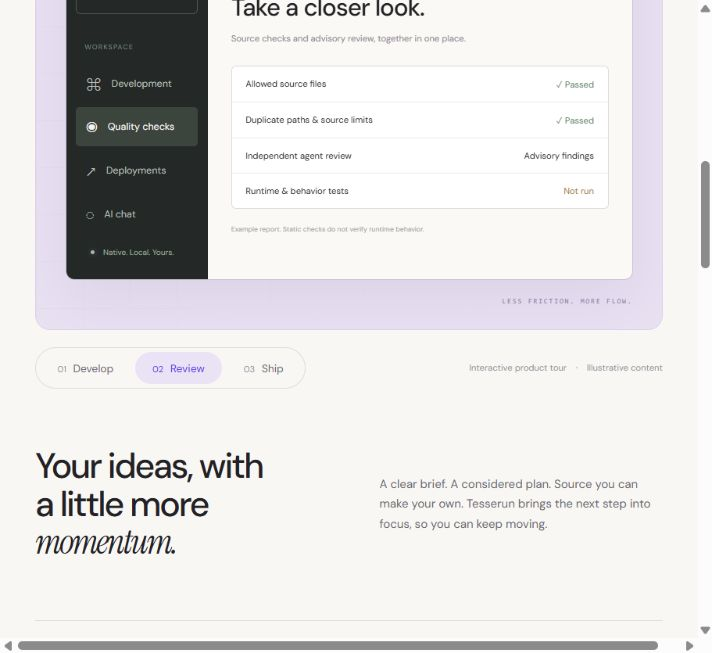
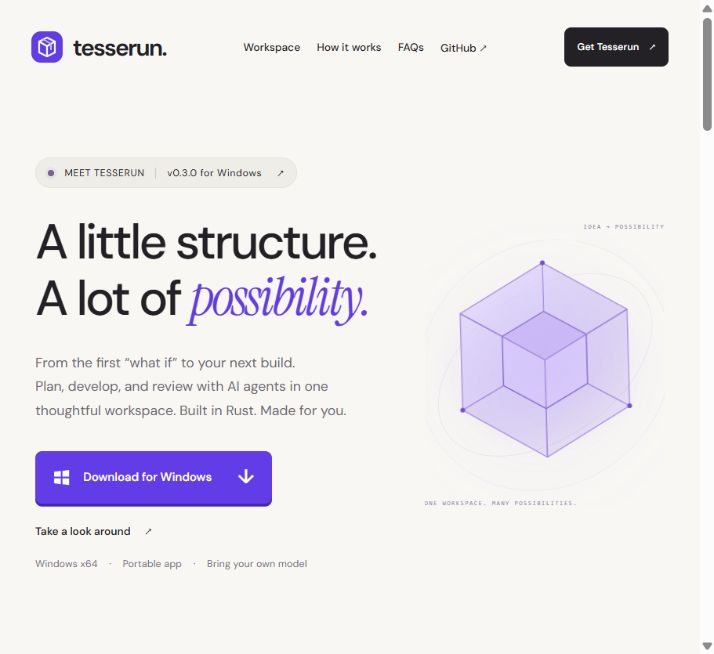
Keep tablet artwork inside the page bounds

diff --git a/dist/index.html b/dist/index.html
@@ -10,7 +10,7 @@
   <meta property="og:type" content="website">
   <title>Tesserun — Your next idea starts here.</title>
   <link rel="icon" href="assets/mark.svg" type="image/svg+xml">
-  <link rel="stylesheet" href="/styles-1e30924c4ad734dd.css" integrity="sha384-K6PMj+MxF8EnjRyua6fmjiLmJIg+tHaxVOGjLaqIG5dRPVg8d6LdxRRn6NkVA76L"/>
+  <link rel="stylesheet" href="/styles-bebdb984270fb58c.css" integrity="sha384-750YCcpsnPoUuY2CbthRI74Xbb/gIM2jXs99+J9Bebx+Eccfc2nQVZTlFzFSaSsW"/>
 
 <script type="module">
 import init, * as bindings from '/tesserun-website-4ac3f60a7a16c252.js';

diff --git a/dist/styles-bebdb984270fb58c.css b/dist/styles-bebdb984270fb58c.css
@@ -10,3 +10,4 @@
 @media(prefers-reduced-motion:reduce){html{scroll-behavior:auto}*,*::before,*::after{animation:none!important;transition:none!important}}
 
 #navigation-root,.navigation-region,#workspace-tour{display:contents}
+@media(min-width:641px) and (max-width:850px){.hero-art{overflow:clip}}

diff --git a/styles.css b/styles.css
@@ -10,3 +10,4 @@
 @media(prefers-reduced-motion:reduce){html{scroll-behavior:auto}*,*::before,*::after{animation:none!important;transition:none!important}}
 
 #navigation-root,.navigation-region,#workspace-tour{display:contents}
+@media(min-width:641px) and (max-width:850px){.hero-art{overflow:clip}}
